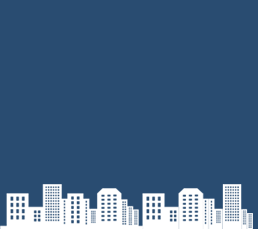
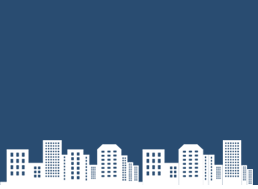
✨ feat: Layout em colunas da página

Changed region(s): [[0.0, 0.7407, 0.9922, 0.9788], [0.9922, 0.9788, 1.0, 1.0], [0.0, 0.9524, 0.031, 0.9788]]

diff --git a/styles.css b/styles.css
@@ -7,7 +7,7 @@
 /* Estilo global para o corpo do documento */
 body {
   font-family: 'Trebuchet MS', 'Lucida Sans Unicode', 'Lucida Grande', 'Lucida Sans', Arial, sans-serif;
-  background: #fff url(./img/fundo.png) repeat-x center;
+  background: #fff url(./img/fundo2.png) repeat-x center top;
 }
 
 /* Estilo do cabeçalho */
@@ -18,10 +18,10 @@ header {
 
 /* Estilo da parte superior do site (topo) */
 .topo {
-  height: 150px;
+  height: 160px;
   background: url(./img/detalhe-topo.png) no-repeat right top;
-  padding-top: 25px;
-  border: 1px solid red;
+  padding-top: 15px;
+  padding-bottom: 30px;
 }
 
 /* Estilo do logotipo */
@@ -44,7 +44,7 @@ ul {
 
 /* Estilo específico para a barra de navegação no topo */
 .topo ul {
-  margin-top: 20px;
+  margin-top: 30px;
   background: #b10333;
 }
 
@@ -78,4 +78,44 @@ body.ciencia .navegacao a.ciencia,
 body.fotos .navegacao a.fotos {
   color: #fff;
   background: #de003e;
+}
+
+/* Configura layout de três colunas */
+main { 
+  background: #f5f5f5;
+  padding: 20px 0px 19px 230px;
+}
+
+section { 
+  width: 270px;
+  background: blue;
+  float: left;
+  margin: 0 0 20px 195px;
+}
+
+.secundario {
+  width: 270px;
+  float: left;
+  margin: 0 0 20px 15px;
+  background: green;
+}
+
+.lateral { 
+  width: 180px;
+  background: yellow;
+  float: left;
+  margin:0 0 20px -750px;
+}
+
+/*Rodape*/
+footer { 
+  background: #294c71;
+  text-align: center;
+  padding: 20px;
+}
+
+.rodape { 
+  width: 750px;
+  margin: 0 auto;
+  color: #fff;
 }
